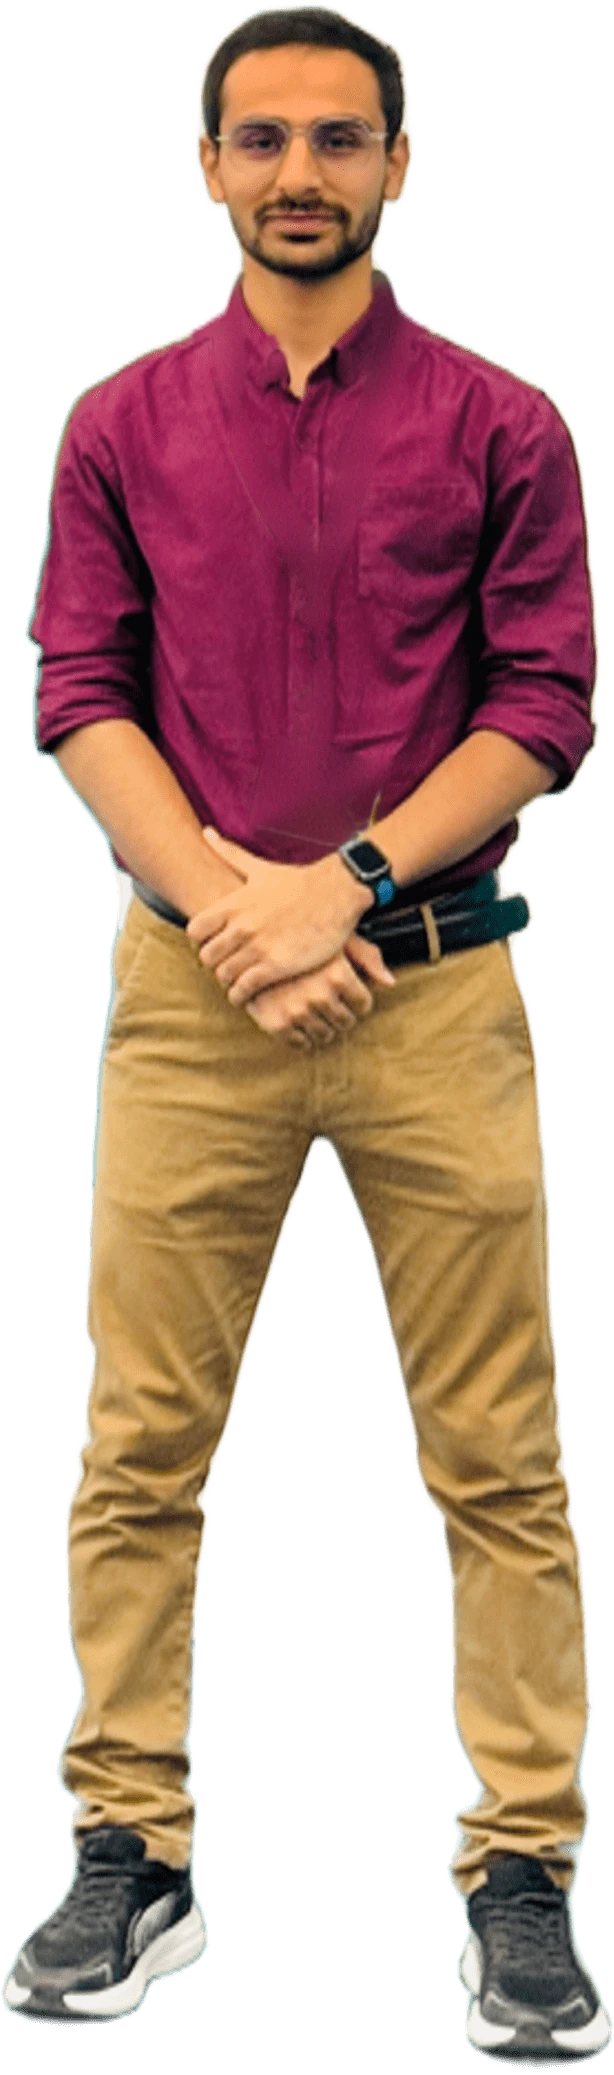
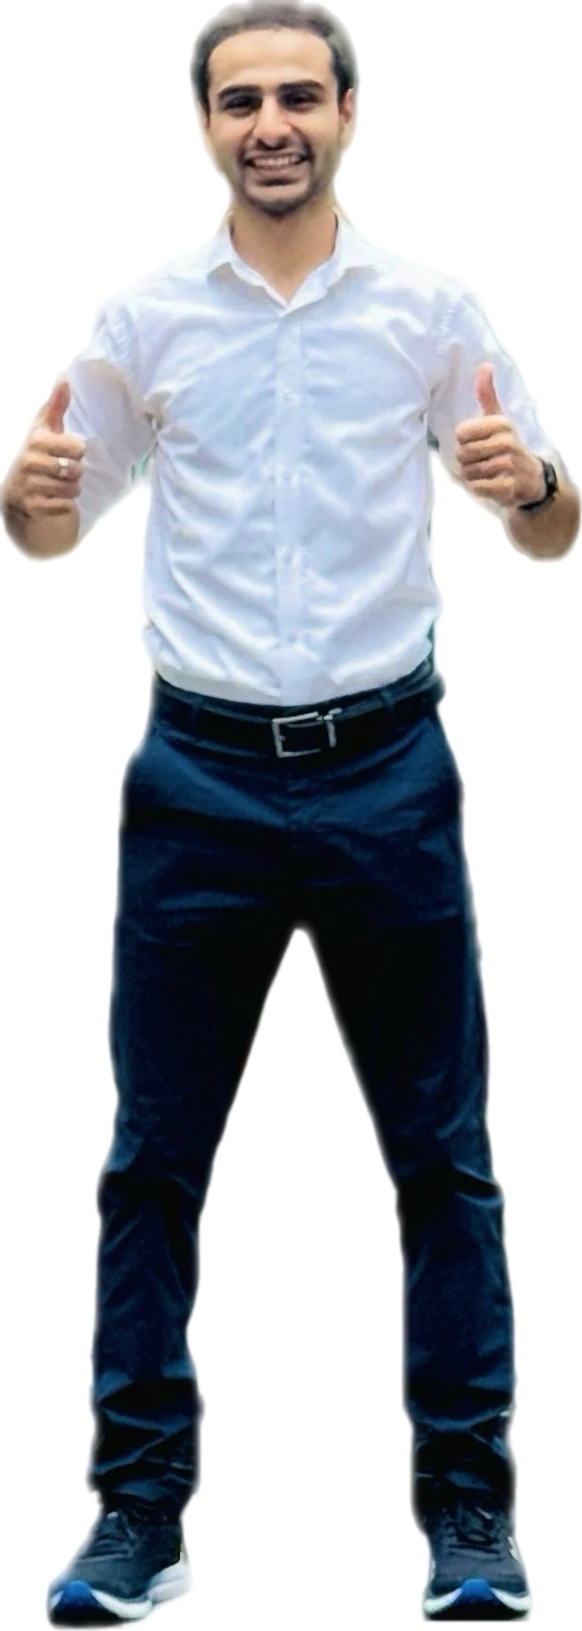
Use the thumbs up photo as the hero image
Claude-Session: https://claude.ai/code/session_018xJnxDLUZcjvaKJFh33xbj

diff --git a/index.html b/index.html
@@ -419,7 +419,7 @@ html,body{overflow-x:clip}
       <p class="hero-sub fx" style="--d:.65s">I build the whole system, then I measure it. Process entrepreneur, automation geek and MSc candidate at KAUST.</p>
       <div class="proof"><span style="--d:.85s">MSc KAUST · 3.92 GPA</span><span style="--d:.95s">Ex BAT · Ingredion · Nestlé</span><span style="--d:1.05s">Graduating Dec 2026</span></div>
     </div>
-    <div class="portrait"><img src="assets/rayan-full.webp" width="614" height="2075" alt="Rayan Shahzad standing, in a maroon shirt and khaki trousers"><span class="scan" aria-hidden="true"></span></div>
+    <div class="portrait"><img src="assets/rayan-full.webp" width="582" height="1631" alt="Rayan Shahzad smiling with two thumbs up, in a white shirt and navy trousers"><span class="scan" aria-hidden="true"></span></div>
     <div class="hero-cta rise d2">
       <a class="btn solid" href="#work">Explore work →</a>
       <a class="btn" href="#contact">Let's talk</a>
